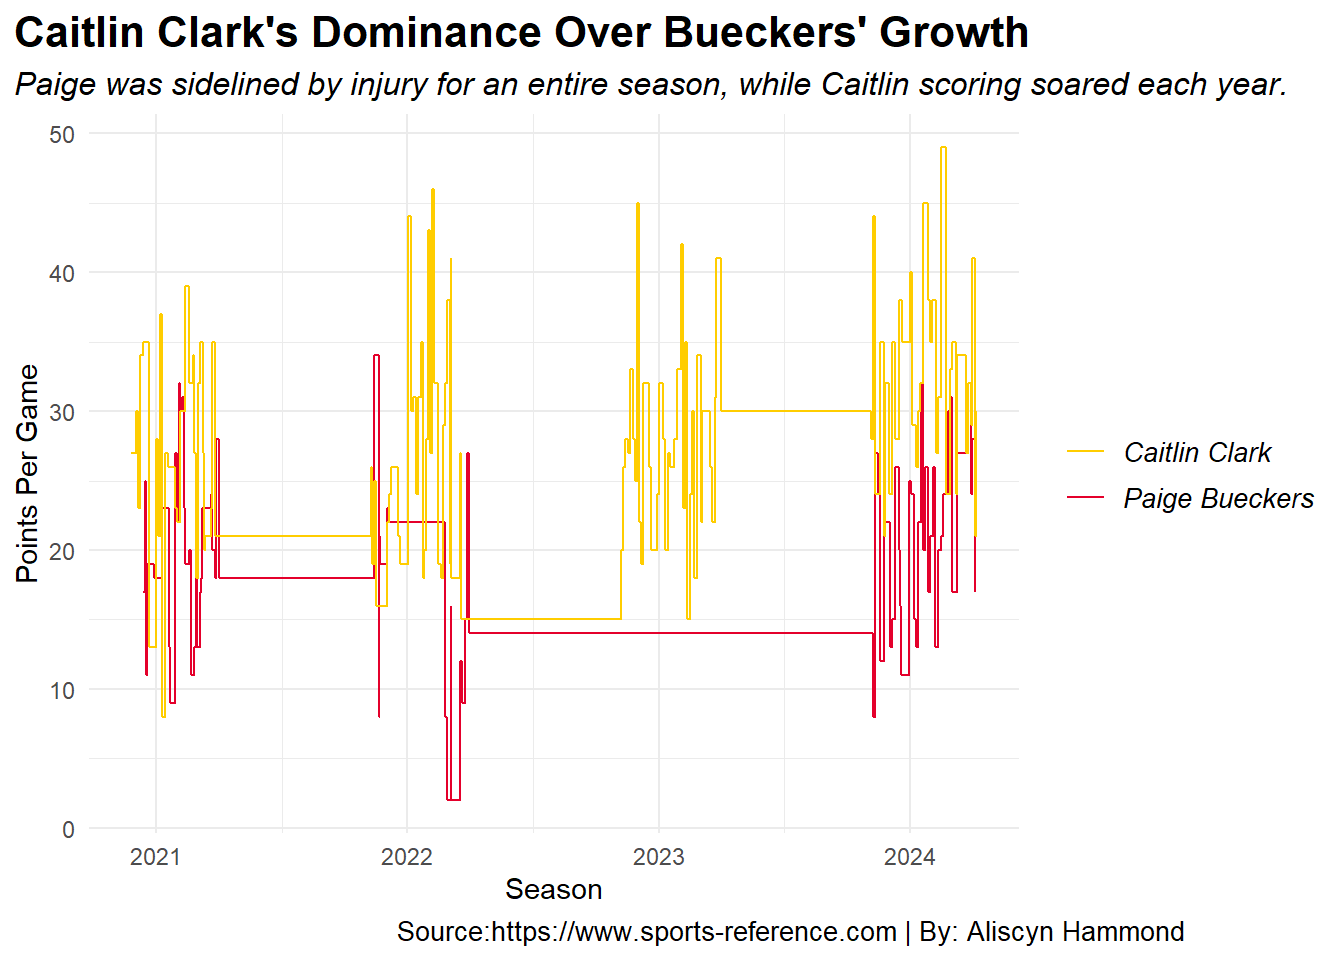
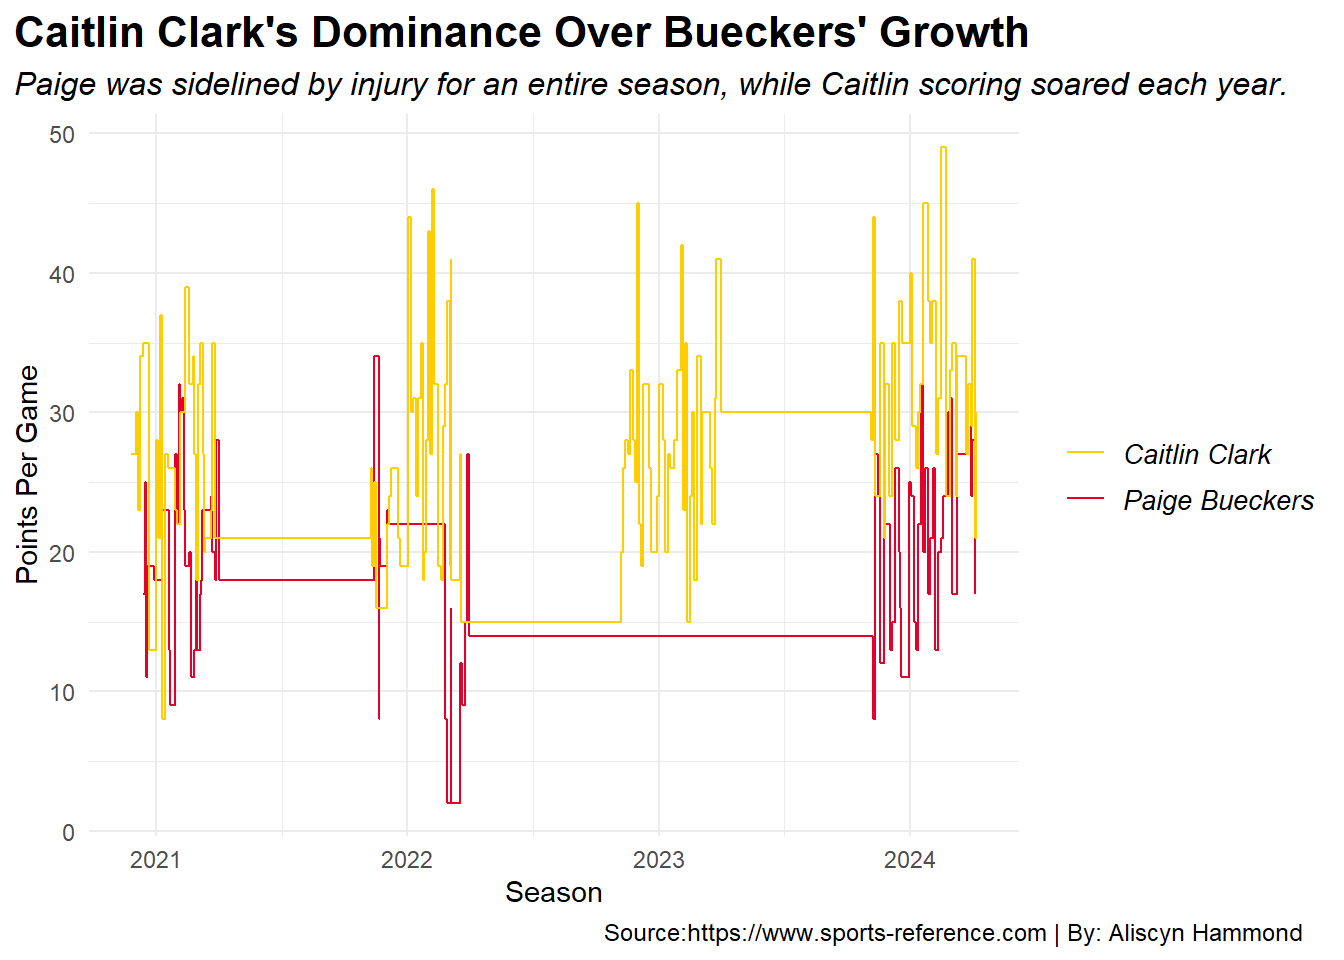
changed caption size

diff --git a/posts/paige_caitlin_basketball/index.html b/posts/paige_caitlin_basketball/index.html
@@ -238,7 +238,7 @@ pre > code.sourceCode > span > a:first-child::before { text-decoration: underlin
 <span id="cb1-34"><a href="#cb1-34" aria-hidden="true" tabindex="-1"></a>    <span class="at">plot.subtitle.position =</span> <span class="st">"plot"</span>,</span>
 <span id="cb1-35"><a href="#cb1-35" aria-hidden="true" tabindex="-1"></a>    <span class="at">legend.title =</span> <span class="fu">element_blank</span>(),</span>
 <span id="cb1-36"><a href="#cb1-36" aria-hidden="true" tabindex="-1"></a>    <span class="at">legend.text =</span> <span class="fu">element_text</span>(<span class="at">size =</span> <span class="dv">10</span>,<span class="at">face=</span><span class="st">"italic"</span>),</span>
-<span id="cb1-37"><a href="#cb1-37" aria-hidden="true" tabindex="-1"></a>    <span class="at">plot.caption =</span> <span class="fu">element_text</span>(<span class="at">size =</span> <span class="dv">10</span>, <span class="at">hjust =</span> <span class="fl">2.3</span>)</span>
+<span id="cb1-37"><a href="#cb1-37" aria-hidden="true" tabindex="-1"></a>    <span class="at">plot.caption =</span> <span class="fu">element_text</span>(<span class="at">size =</span> <span class="dv">9</span>, <span class="at">hjust =</span> <span class="fl">2.3</span>)</span>
 <span id="cb1-38"><a href="#cb1-38" aria-hidden="true" tabindex="-1"></a>  )</span></code><button title="Copy to Clipboard" class="code-copy-button"><i class="bi"></i></button></pre></div>
 </details>
 <div class="cell-output-display">
@@ -288,7 +288,7 @@ pre > code.sourceCode > span > a:first-child::before { text-decoration: underlin
 <span id="cb2-31"><a href="#cb2-31" aria-hidden="true" tabindex="-1"></a>        <span class="at">legend.text =</span><span class="fu">element_text</span>(<span class="at">size=</span><span class="dv">11</span>),</span>
 <span id="cb2-32"><a href="#cb2-32" aria-hidden="true" tabindex="-1"></a>        <span class="at">legend.title =</span><span class="fu">element_text</span>(<span class="at">size=</span><span class="dv">14</span>,<span class="at">face=</span><span class="st">"bold"</span>),</span>
 <span id="cb2-33"><a href="#cb2-33" aria-hidden="true" tabindex="-1"></a>        <span class="at">strip.text=</span><span class="fu">element_text</span>(<span class="at">size=</span><span class="dv">14</span>,<span class="at">face=</span><span class="st">"italic"</span>),</span>
-<span id="cb2-34"><a href="#cb2-34" aria-hidden="true" tabindex="-1"></a>        <span class="at">plot.caption =</span> <span class="fu">element_text</span>(<span class="at">size =</span> <span class="dv">10</span>, <span class="at">hjust =</span> <span class="dv">3</span>)</span>
+<span id="cb2-34"><a href="#cb2-34" aria-hidden="true" tabindex="-1"></a>        <span class="at">plot.caption =</span> <span class="fu">element_text</span>(<span class="at">size =</span> <span class="dv">9</span>, <span class="at">hjust =</span> <span class="dv">3</span>)</span>
 <span id="cb2-35"><a href="#cb2-35" aria-hidden="true" tabindex="-1"></a>  )</span></code><button title="Copy to Clipboard" class="code-copy-button"><i class="bi"></i></button></pre></div>
 </details>
 <div class="cell-output-display">

diff --git a/index.html b/index.html
@@ -210,7 +210,7 @@ window.Quarto = {
 
 <div class="quarto-listing quarto-listing-container-default" id="listing-listing">
 <div class="list quarto-listing-default">
-<div class="quarto-post image-right" data-index="0" data-categories="YmFza2V0YmFsbCx3b21lbiBzcG9ydHMsY29sbGVnZSBzcG9ydHM=" data-listing-date-sort="1733724000000" data-listing-file-modified-sort="1733548703907" data-listing-date-modified-sort="NaN" data-listing-reading-time-sort="5" data-listing-word-count-sort="967">
+<div class="quarto-post image-right" data-index="0" data-categories="YmFza2V0YmFsbCx3b21lbiBzcG9ydHMsY29sbGVnZSBzcG9ydHM=" data-listing-date-sort="1733724000000" data-listing-file-modified-sort="1733548800080" data-listing-date-modified-sort="NaN" data-listing-reading-time-sort="5" data-listing-word-count-sort="967">
 <div class="thumbnail">
 <p><a href="./posts/paige_caitlin_basketball/index.html" class="no-external"></a></p><a href="./posts/paige_caitlin_basketball/index.html" class="no-external">
 <p><img loading="lazy" src="./posts/paige_caitlin_basketball/image.png" class="thumbnail-image"></p>
